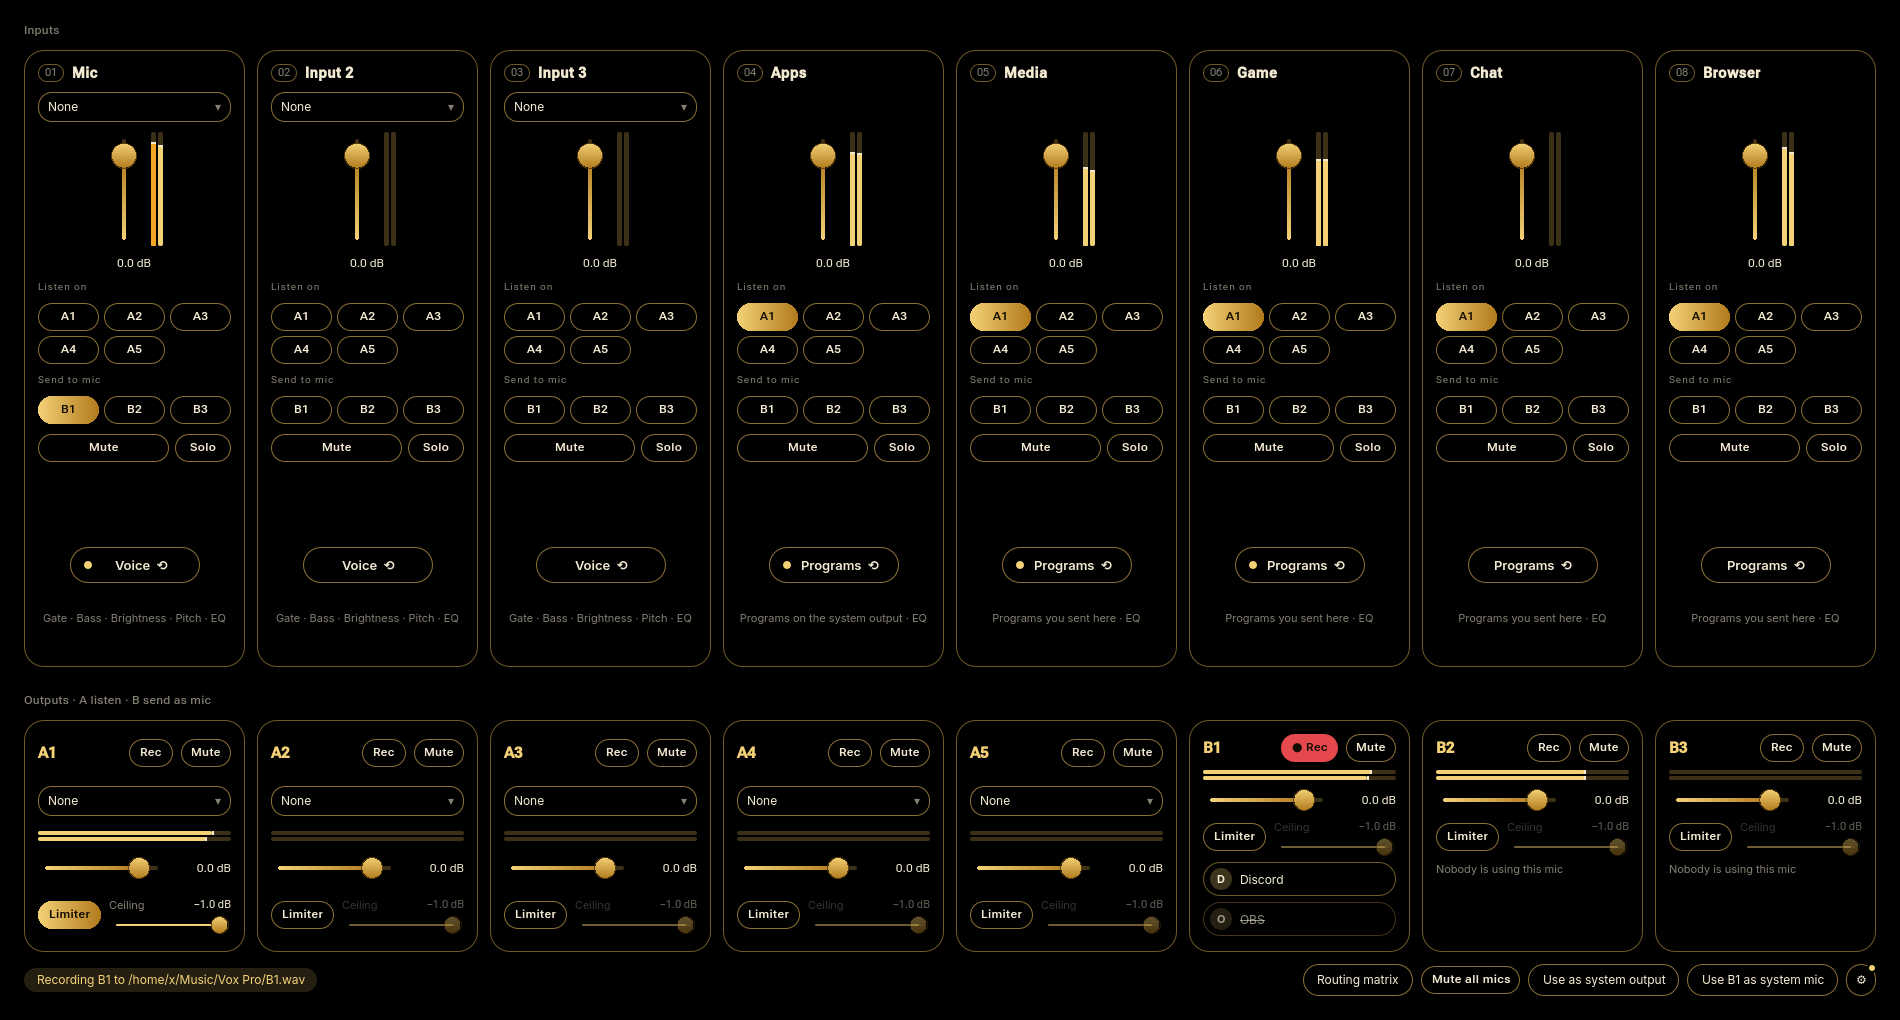
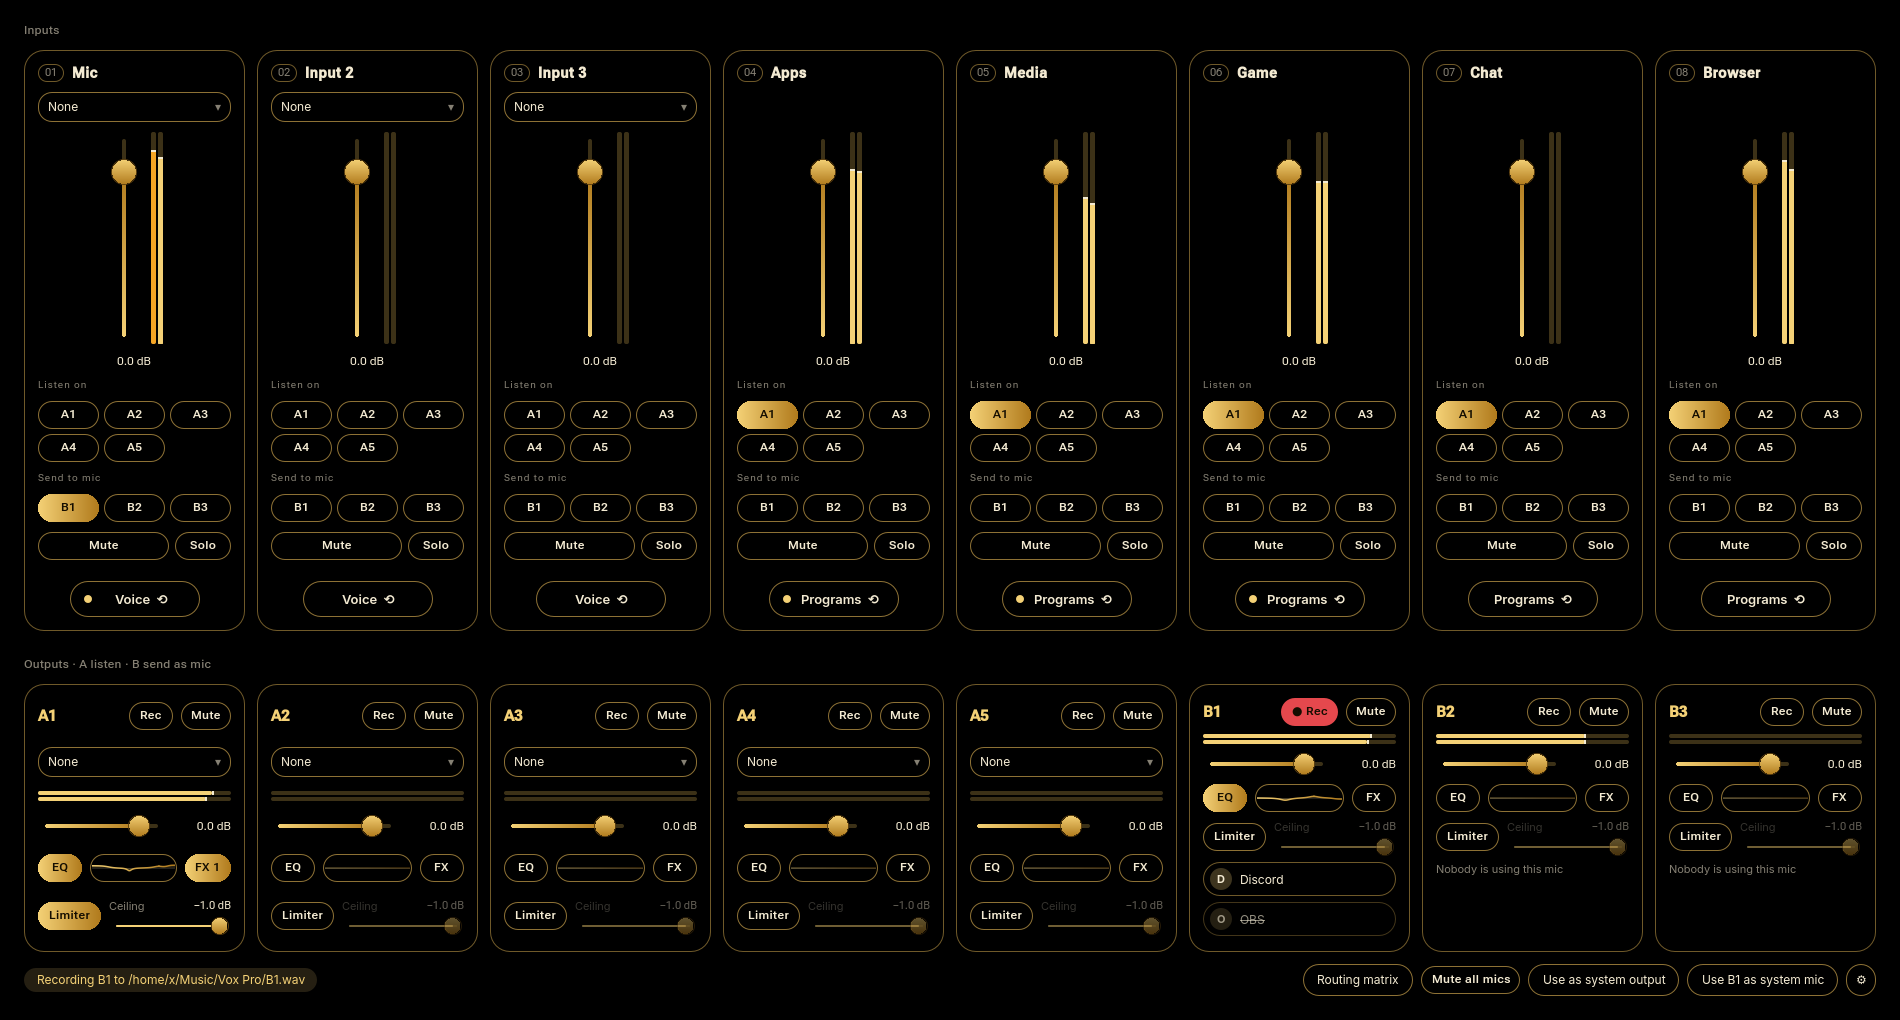
Vox Pro 0.2.0: polish, licence, README, programs stay on the strip they were dragged to
- Taller faders, tabs on the back of the strips, less text on the strips and in Settings
- Plugins-off notice after a crash, LSP's window-only switches hidden in the rack
- The Vox licence terms replace the placeholder; funding links
- README and screenshots for the parametric EQ and the plugin rack

diff --git a/qml/StripCard.qml b/qml/StripCard.qml
@@ -1,5 +1,6 @@
 import QtQuick
 import QtQuick.Layouts
+import QtQuick.Controls.Basic
 
 // One input: where the sound comes from, how loud it is, where it goes, and voice shaping.
 Rectangle {
@@ -27,7 +28,7 @@ Rectangle {
     function hz(v) { return v >= 1000 ? (v / 1000).toFixed(v % 1000 === 0 ? 0 : 1) + " kHz" : Math.round(v) + " Hz"; }
     property real turn: Qt.application.arguments.indexOf("--flip") >= 0 ? 180 : 0   // degrees; --flip is a dev aid for screenshots
     readonly property bool showingBack: turn >= 90
-    readonly property int flipBelow: 70   // room under the flip/Done button, for the hint text on the front
+    readonly property int flipBelow: 0
     Behavior on turn { NumberAnimation { duration: 380; easing.type: Easing.InOutCubic } }
     transform: Rotation {
         origin.x: card.width / 2
@@ -148,12 +149,26 @@ Rectangle {
             }
         }
 
-        Text {
-            text: card.app.t("Send to mic")
-            color: card.app.dim
-            font.family: card.app.mono
-            font.pixelSize: 10
-            font.letterSpacing: 1
+        RowLayout {
+            spacing: 6
+            Text {
+                text: card.app.t("Send to mic")
+                color: card.app.dim
+                font.family: card.app.mono
+                font.pixelSize: 10
+                font.letterSpacing: 1
+            }
+            // Apps carries everything, voice chat included, so warn while it goes to a mic.
+            Text {
+                visible: card.strip.virtual_input && card.isApps && card.sendsToMic
+                text: "⚠ echo"
+                color: card.app.warning
+                font.pixelSize: 10
+                font.weight: Font.DemiBold
+                HoverHandler { id: echoHover }
+                ToolTip.visible: echoHover.hovered
+                ToolTip.text: "Voice chat playing through Apps also goes into this mic, so people may hear themselves"
+            }
         }
         GridLayout {
             Layout.fillWidth: true
@@ -197,38 +212,10 @@ Rectangle {
 
         Rectangle { Layout.fillWidth: true; Layout.preferredHeight: 1; color: card.app.soft ? "transparent" : card.app.line }
 
-        // Fixed height so every strip's fader lines up, with or without voice tools.
+        // Room for the flip button (pinned below, same spot on both faces).
         Item {
             Layout.fillWidth: true
-            Layout.preferredHeight: 170
-
-            // One button to the back of the strip (voice tools, or the programs using it), with a dot when
-            // something is on / playing.
-            ColumnLayout {
-                anchors.bottom: parent.bottom
-                width: parent.width
-                height: card.flipBelow
-                spacing: 8
-                Text {
-                    Layout.fillWidth: true
-                    horizontalAlignment: Text.AlignHCenter
-                    wrapMode: Text.WordWrap
-                    text: card.strip.virtual_input ? (card.isApps ? "Programs on the system output · EQ" : "Programs you sent here · EQ") : "Gate · Bass · Brightness · Pitch · EQ"
-                    color: card.app.dim
-                    font.pixelSize: 11
-                }
-                Text {
-                    // Apps carries everything, voice chat included, so warn before it goes to a mic.
-                    visible: card.strip.virtual_input && card.isApps && card.sendsToMic
-                    Layout.fillWidth: true
-                    Layout.topMargin: 6
-                    horizontalAlignment: Text.AlignHCenter
-                    text: "Voice chat playing here also goes into the mic, so people may hear themselves."
-                    color: card.app.warning
-                    font.pixelSize: 11
-                    wrapMode: Text.WordWrap
-                }
-            }
+            Layout.preferredHeight: 36
         }
     }
 
@@ -422,13 +409,6 @@ Rectangle {
         DynamicsPanel { visible: card.tab === 2; card: card; Layout.fillWidth: true }
         FxPanel { visible: card.tab === 3; card: card; Layout.fillWidth: true }
         Item { Layout.fillHeight: true }
-        Text {
-            Layout.fillWidth: true
-            text: "Double-click a slider to reset it."
-            wrapMode: Text.WordWrap
-            color: card.app.dim
-            font.pixelSize: 11
-        }
     }
 
     // Back face of Apps / Media: the programs using the strip, each with its own mute.
@@ -490,7 +470,7 @@ Rectangle {
             }
             Text {
                 Layout.fillWidth: true
-                text: "Drag a program onto a program strip to send it there."
+                text: "Drag a program onto a strip to move it."
                 color: card.app.dim
                 font.pixelSize: 11
                 wrapMode: Text.WordWrap
@@ -500,14 +480,6 @@ Rectangle {
         DynamicsPanel { visible: card.tab === 2; card: card; Layout.fillWidth: true }
         FxPanel { visible: card.tab === 3; card: card; Layout.fillWidth: true }
         Item { visible: card.tab !== 0; Layout.fillHeight: true }
-        Text {
-            visible: card.tab !== 0
-            Layout.fillWidth: true
-            text: "Double-click a slider to reset it."
-            wrapMode: Text.WordWrap
-            color: card.app.dim
-            font.pixelSize: 11
-        }
     }
 
     // Drop a program here (dragged from a program list on an Apps or Media back) to send it to this strip.

diff --git a/qml/SettingsPanel.qml b/qml/SettingsPanel.qml
@@ -179,7 +179,7 @@ ColumnLayout {
                 Text {
                     Layout.fillWidth: true
                     readonly property string path: decodeURIComponent((panel.app.cfg.bg_image || "").toString())
-                    text: path === "" ? "Pick a picture to put behind the mixer" : path.substring(path.lastIndexOf("/") + 1)
+                    text: path === "" ? "None" : path.substring(path.lastIndexOf("/") + 1)
                     color: panel.app.dim
                     font.pixelSize: 11
                     elide: Text.ElideMiddle
@@ -222,7 +222,7 @@ ColumnLayout {
             id: sceneName
             Layout.fillWidth: true
             Layout.preferredHeight: 32
-            placeholderText: "Name this layout (Gaming, Call, Stream…)"
+            placeholderText: "Scene name"
             placeholderTextColor: panel.app.dim
             color: panel.app.ink
             font.pixelSize: 12
@@ -282,7 +282,7 @@ ColumnLayout {
     Text {
         Layout.fillWidth: true
         visible: panel.app.scenes.length === 0
-        text: "No scenes yet. Set the mixer up, give it a name and save it; the first five show above the inputs."
+        text: "No scenes yet"
         color: panel.app.dim
         font.pixelSize: 11
         wrapMode: Text.WordWrap
@@ -300,7 +300,7 @@ ColumnLayout {
     Text {
         Layout.fillWidth: true
         visible: !panel.app.shortcutsOk
-        text: "Global shortcuts need KDE's shortcut service, which isn't available here."
+        text: "Needs KDE Plasma"
         color: panel.app.warning
         font.pixelSize: 11
         wrapMode: Text.WordWrap
@@ -322,14 +322,7 @@ ColumnLayout {
                 ColumnLayout {
                     Layout.fillWidth: true
                     spacing: 2
-                    Text { text: "Push to talk"; color: panel.app.ink; font.pixelSize: 13; font.weight: Font.DemiBold }
-                    Text {
-                        Layout.fillWidth: true
-                        text: "Mic reaches B mics only while held"
-                        color: panel.app.dim
-                        font.pixelSize: 11
-                        elide: Text.ElideRight
-                    }
+                    Text { Layout.fillWidth: true; text: "Push to talk"; color: panel.app.ink; font.pixelSize: 13; font.weight: Font.DemiBold }
                 }
                 Chip {
                     app: panel.app
@@ -358,14 +351,7 @@ ColumnLayout {
                 ColumnLayout {
                     Layout.fillWidth: true
                     spacing: 2
-                    Text { text: "Mute microphones"; color: panel.app.ink; font.pixelSize: 13; font.weight: Font.DemiBold }
-                    Text {
-                        Layout.fillWidth: true
-                        text: "One key mutes or unmutes the B mics"
-                        color: panel.app.dim
-                        font.pixelSize: 11
-                        elide: Text.ElideRight
-                    }
+                    Text { Layout.fillWidth: true; text: "Mute microphones"; color: panel.app.ink; font.pixelSize: 13; font.weight: Font.DemiBold }
                 }
                 KeyCapture { app: panel.app; key: panel.app.muteKey; onCaptured: k => panel.app.setShortcut("mute-mics", k) }
                 TextButton { app: panel.app; text: "✕"; tip: "Clear the key"; onClicked: panel.app.setShortcut("mute-mics", 0) }
@@ -394,7 +380,7 @@ ColumnLayout {
             spacing: 8
             Text {
                 Layout.fillWidth: true
-                text: "Rec on an output saves what it carries to Music/Vox Pro. Sizes are per hour of stereo."
+                text: "Saved in Music/Vox Pro"
                 color: panel.app.dim
                 font.pixelSize: 11
                 wrapMode: Text.WordWrap
@@ -451,7 +437,8 @@ ColumnLayout {
                 Text { text: "Keep running in the tray"; color: panel.app.ink; font.pixelSize: 13; font.weight: Font.DemiBold }
                 Text {
                     Layout.fillWidth: true
-                    text: panel.app.trayOn ? "Closing the window leaves the mixer running; use the tray icon to bring it back" : "No system tray found"
+                    visible: !panel.app.trayOn
+                    text: "No system tray found"
                     color: panel.app.dim
                     font.pixelSize: 11
                     elide: Text.ElideRight

diff --git a/qml/PluginRack.qml b/qml/PluginRack.qml
@@ -64,7 +64,7 @@ Rectangle {
     }
 
     // ---- How one control is shown ----
-    function isLog(p) { return p.log && p.max > 0 && p.max > p.min; }
+    function isLog(p) { return p.max > 0 && p.max > p.min && (p.log || (p.min > 0 && p.max / p.min >= 1000)); }
     function low(p) { return p.min > 0 ? p.min : p.max * 1e-5; }
     function shown(p, v) {
         const tidy = x => Math.abs(x) >= 100 ? x.toFixed(0) : Math.abs(x) >= 10 ? x.toFixed(1) : x.toFixed(2);
@@ -414,7 +414,8 @@ Rectangle {
                             columnSpacing: 28
                             rowSpacing: 14
                             Repeater {
-                                model: rack.info ? rack.info.params : []
+                                // Switches that only drive a plugin's own window (LSP's graphs and overlays) are left out.
+                                model: rack.info ? rack.info.params.filter(p => !/visibility|overlay|graph analysis/i.test(p.name)) : []
                                 Item {
                                     id: cell
                                     required property var modelData

diff --git a/qml/Main.qml b/qml/Main.qml
@@ -584,6 +584,16 @@ ApplicationWindow {
                             font.pixelSize: 12
                         }
                     }
+                    // Plugins are off after one crashed Vox while loading: say so, with the way back.
+                    Chip {
+                        visible: win.pluginsSafe && win.engineError === ""
+                        app: win
+                        text: "Plugins are off after a crash  ·  switch on"
+                        checked: true
+                        onColor: win.warning
+                        tip: "Vox closed while loading a plugin last time. Remove the plugin you added last, then click here."
+                        onToggled: win.resumePlugins()
+                    }
                     Item { Layout.fillWidth: true }
                     TextButton {
                         app: win

diff --git a/src/engine.rs b/src/engine.rs
@@ -862,6 +862,9 @@ fn run(
     let apps: AppStreams = Rc::default();
     let routes: Routes = Rc::default();
     let metadata: DefaultMetadata = Rc::default();
+    // Programs the user dragged onto a strip, by name -> device. A program opens a new stream for every
+    // song or video, so the move has to be re-applied to each new stream or it falls back to the default output.
+    let pins: Rc<RefCell<HashMap<String, String>>> = Rc::default();
     let registry = core.get_registry_rc()?;
 
     let mixer = Rc::new(RefCell::new(Mixer::new(shared.clone())));
@@ -905,6 +908,7 @@ fn run(
             let registry = registry.clone();
             let refresh = refresh.clone();
             let metadata = metadata.clone();
+            let pins = pins.clone();
             move |global| {
                 let Some(props) = global.props else { return };
                 if global.type_ == pw::types::ObjectType::Metadata {
@@ -1008,6 +1012,11 @@ fn run(
                         node,
                         _listener: listener,
                     };
+                    if !stream.capture {
+                        if let (Some(device), Some(metadata)) = (pins.borrow().get(&stream.name), metadata.borrow().as_ref()) {
+                            metadata.set_property(id, "target.object", Some("Spa:String"), Some(device));
+                        }
+                    }
                     apps.borrow_mut().insert(id, stream);
                     publish_streams(&apps, &routes, &shared);
                     return;
@@ -1116,6 +1125,7 @@ fn run(
         let apps = apps.clone();
         let (ready, present, first) = (ready.clone(), present.clone(), first_settings.clone());
         let metadata = metadata.clone();
+        let pins = pins.clone();
         move |command| match command {
             Command::Apply(settings) => {
                 if ready.get() {
@@ -1154,7 +1164,8 @@ fn run(
                 let device = format!("{OWN_PREFIX}_{label}");
                 let device = device.as_str();
                 // WirePlumber moves the stream when its target.object changes (what Plasma's volume menu does too).
-                if apps.borrow().contains_key(&id) {
+                if let Some(stream) = apps.borrow().get(&id) {
+                    pins.borrow_mut().insert(stream.name.clone(), device.to_string());
                     if let Some(metadata) = metadata.borrow().as_ref() {
                         metadata.set_property(id, "target.object", Some("Spa:String"), Some(device));
                     }

diff --git a/Scripts/gen_third_party.py b/Scripts/gen_third_party.py
@@ -45,6 +45,10 @@ if pro:
   (https://opus-codec.org/license/) are kept.
 
 flacenc - Apache 2.0 - https://github.com/yotarok/flacenc-rs  (FLAC recordings)
+
+Lilv, Serd, Sord and Sratom - ISC - https://drobilla.net/software/lilv  (finds and loads LV2 plugins)
+  Used as shared libraries from your system (the lilv package), like the LV2 headers (ISC, https://lv2plug.in).
+  The plugins you load in the plugin rack are separate programs under their own licences; {app} ships none.
 """.replace("{app}", app))
 t.append("""
 RUST LIBRARIES

diff --git a/README.md b/README.md
@@ -14,8 +14,12 @@ reaches for. Rust + PipeWire for the audio, Qt Quick for the interface. Not affi
 - **8 outputs:** **A1–A5** play on hardware you pick (headphones, speakers, a soundbar), and
   **B1–B3** are virtual microphones for Discord, OBS and friends.
 - **Routing matrix:** every strip to every output in one grid.
-- **EQ and compressor on every strip**, mics and programs alike: a three-band EQ with adjustable
-  frequencies and a soft-knee compressor with threshold, ratio, attack, release and make-up gain.
+- **Parametric EQ on every strip and every output:** six cells each (bell, low and high shelf, low and
+  high pass, notch) with frequency, gain and width. Drag the dots on the curve or set exact values.
+- **Compressor on every strip**, mics and programs alike: soft knee, with threshold, ratio, attack,
+  release and make-up gain.
+- **Plugin rack:** load LV2 plugins (LSP, Calf, x42 and anything else you have installed) on any strip
+  or output, up to six in a chain, with a control for every plugin parameter.
 - **Voice tools on the mic strips:** noise gate, bass, brightness and pitch, plus auto-duck that
   dips Apps and Media while you talk.
 - **A limiter on every output** with an adjustable ceiling, so nothing clips on the way out.
@@ -31,13 +35,31 @@ reaches for. Rust + PipeWire for the audio, Qt Quick for the interface. Not affi
 
 Flip any strip to reach its tools:
 
-![Voice, EQ and dynamics](docs/screenshots/tools.png)
+![Voice, EQ, compressor and plugins](docs/screenshots/tools.png)
+
+The parametric EQ, here on an output:
+
+![Parametric EQ](docs/screenshots/eq.png)
+
+The plugin rack, with a plugin's controls and the list of installed plugins:
+
+| Controls | Installed plugins |
+| --- | --- |
+| ![Plugin controls](docs/screenshots/rack.png) | ![Plugin browser](docs/screenshots/rack-browser.png) |
 
 ![Routing matrix](docs/screenshots/matrix.png)
 
 ![Settings](docs/screenshots/settings.png)
 
 (Screenshots use made-up programs and levels.)
+
+### Plugins
+
+Vox Pro hosts **LV2** plugins that take mono or stereo audio in and out. It finds the ones installed on
+your system (`/usr/lib/lv2`, `~/.lv2`); it doesn't ship any. On Arch, `lsp-plugins-lv2`, `calf` and
+`x42-plugins` are a good start. Plugins get a generic control panel drawn by Vox, not their own windows.
+A plugin runs inside Vox, so a faulty one can take Vox down: if that happens while a plugin is loading,
+the next start comes up with plugins switched off and tells you. VST3 and CLAP aren't supported yet.
 
 ## Install
 
@@ -50,7 +72,7 @@ After that, updates come from inside the app.
 
 ## Build and run
 
-Needs Rust, clang, cmake, Qt 6 (base and declarative), PipeWire development files and SoundTouch.
+Needs Rust, clang, cmake, Qt 6 (base and declarative), PipeWire development files, SoundTouch and lilv.
 
     cargo run --release
 
@@ -73,14 +95,18 @@ contributions, but every report and suggestion is read.
 
 ## Licence
 
-The licence terms are still being finalised; until then, all rights are reserved. See
-[LICENSE](LICENSE). Credits and third-party licences (Qt and SoundTouch are LGPL, used as system
-libraries) are in Settings → About and in [THIRD_PARTY.txt](THIRD_PARTY.txt).
+Free to download and use, including commercially (a streamer or podcaster using it for audio routing
+is exactly what it's for). Not open source: you can't modify it, redistribute it, publish forks or
+derived versions, or sell it. See [LICENSE](LICENSE). Credits and third-party licences (Qt and
+SoundTouch are LGPL, used as system libraries) are in Settings → About and in
+[THIRD_PARTY.txt](THIRD_PARTY.txt).
 
 ## Layout
 
 - `src/engine.rs`: PipeWire streams, virtual devices, mixing, routing and limiters
-- `src/dsp.rs`: gate, shelves, EQ, compressor and the pitch stage
+- `src/dsp.rs`: gate, shelves, compressor and the pitch stage
+- `src/peq.rs`: the parametric EQ
+- `src/plugins.rs`: the LV2 plugin host
 - `src/recorder.rs`: WAV, FLAC and Opus writers
 - `src/updater.rs`: the in-app updater
 - `src/settings.rs`: the saved layout and scenes

diff --git a/NOTES.md b/NOTES.md
@@ -1,0 +1,8 @@
+First packaged release of Vox Pro.
+
+- 8 inputs and 8 outputs (A1-A5, B1-B3) with a routing matrix
+- **Parametric EQ** on every strip and every output: six cells with a curve you can drag
+- **Plugin rack:** LV2 plugins (LSP, Calf, x42...) on any strip or output
+- Compressor on every strip, limiter on every output
+- Record any output to FLAC, WAV or Opus
+- Built-in updater
